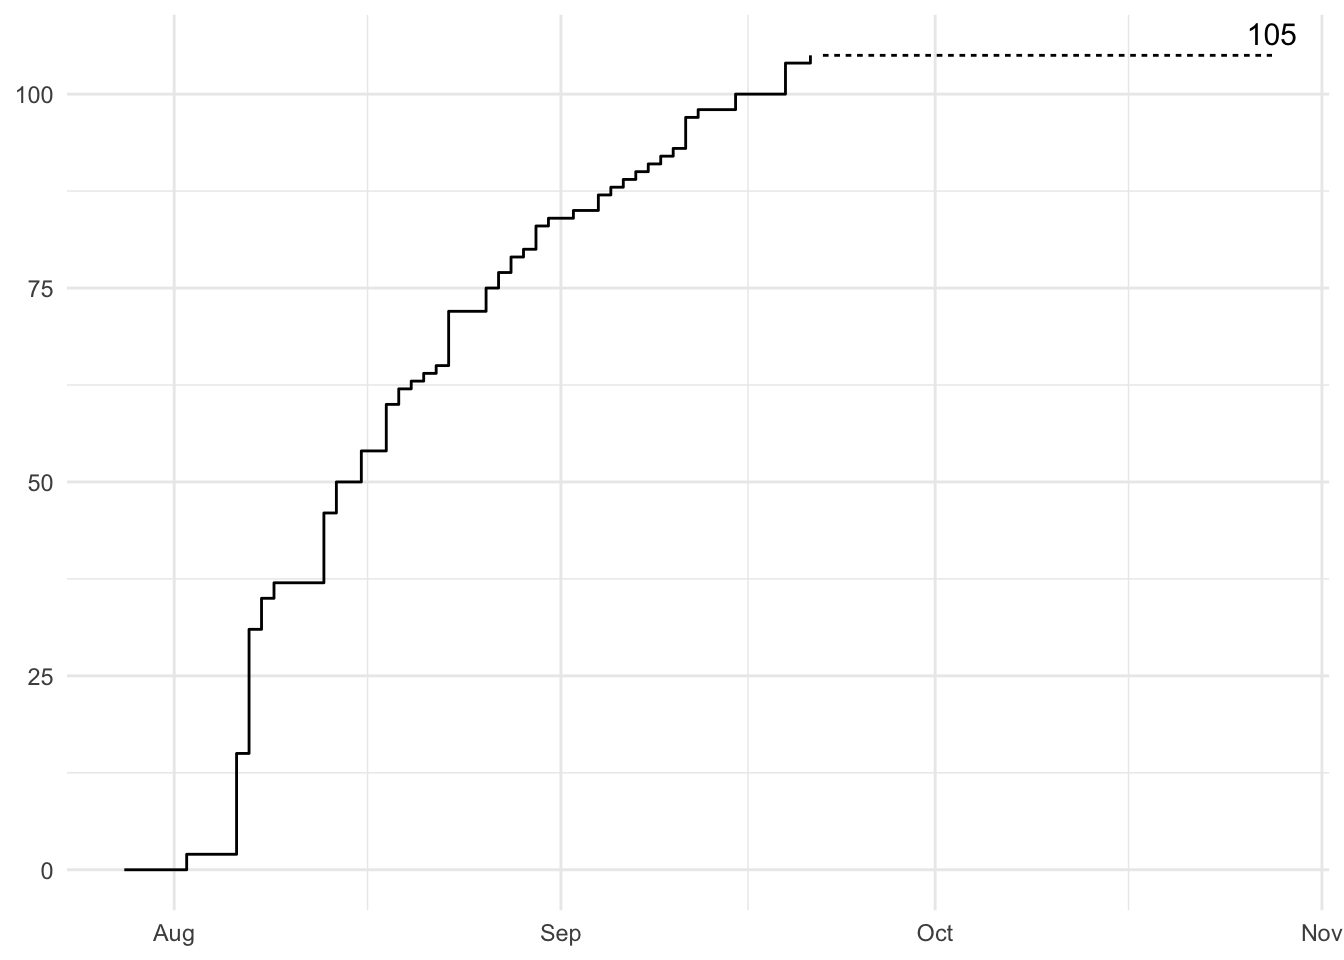
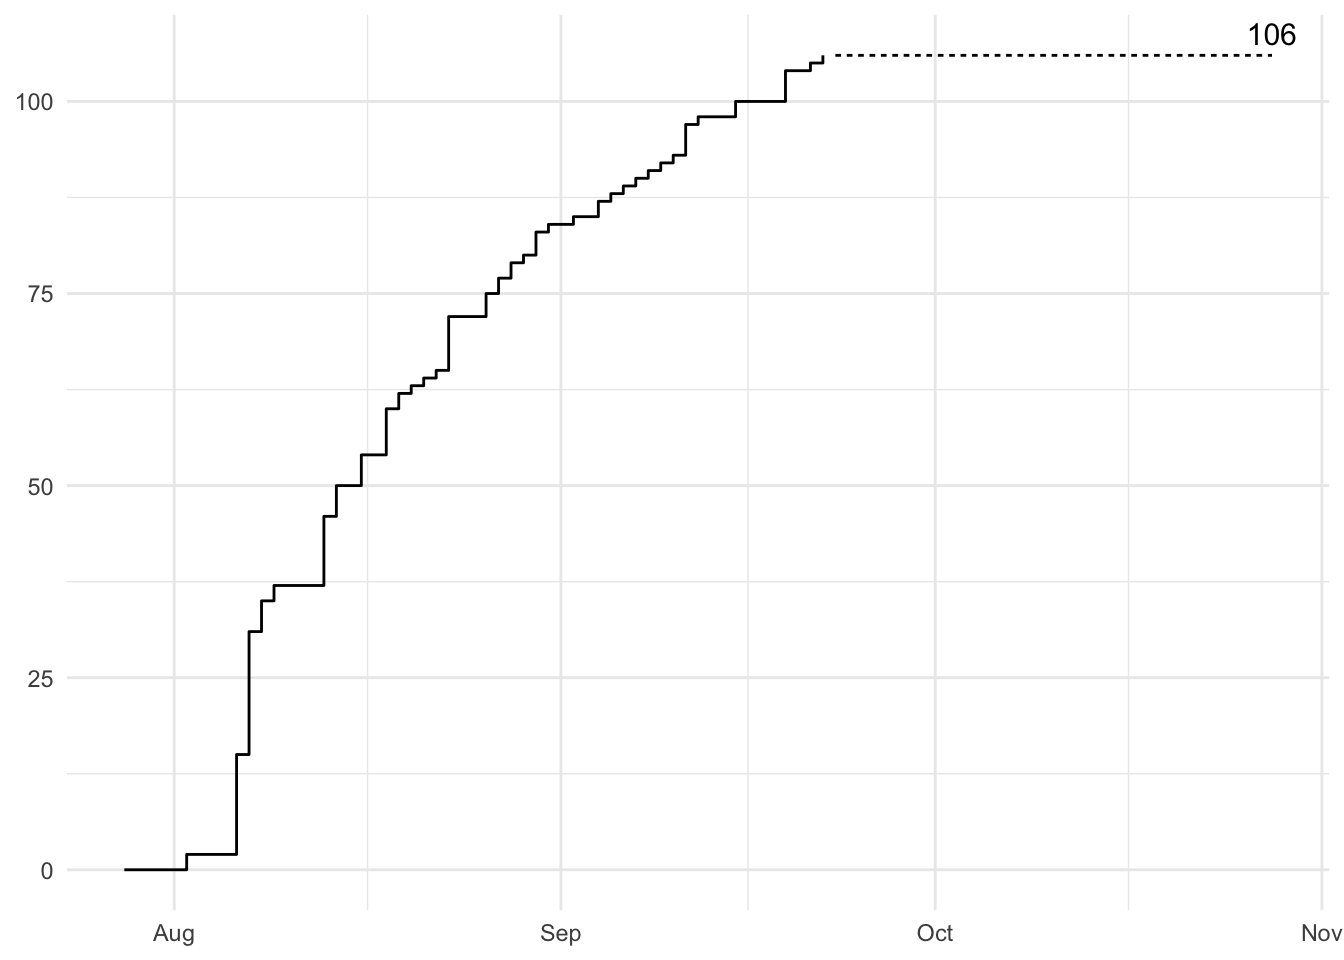
new team

diff --git a/_site/teams.html b/_site/teams.html
@@ -493,6 +493,7 @@ ul.task-list li input[type="checkbox"] {
   <li><a href="#team_versatile_monkey" id="toc-team_versatile_monkey" class="nav-link" data-scroll-target="#team_versatile_monkey">team_versatile_monkey</a></li>
   <li><a href="#team_versatile_ostrich" id="toc-team_versatile_ostrich" class="nav-link" data-scroll-target="#team_versatile_ostrich">team_versatile_ostrich</a></li>
   <li><a href="#team_versatile_yacht" id="toc-team_versatile_yacht" class="nav-link" data-scroll-target="#team_versatile_yacht">team_versatile_yacht</a></li>
+  <li><a href="#team_vibrant_orchid" id="toc-team_vibrant_orchid" class="nav-link" data-scroll-target="#team_vibrant_orchid">team_vibrant_orchid</a></li>
   <li><a href="#team_vibrant_pencil" id="toc-team_vibrant_pencil" class="nav-link" data-scroll-target="#team_vibrant_pencil">team_vibrant_pencil</a></li>
   <li><a href="#team_vigorous_jungle" id="toc-team_vigorous_jungle" class="nav-link" data-scroll-target="#team_vigorous_jungle">team_vigorous_jungle</a></li>
   <li><a href="#team_vigorous_ladder" id="toc-team_vigorous_ladder" class="nav-link" data-scroll-target="#team_vigorous_ladder">team_vigorous_ladder</a></li>
@@ -535,8 +536,8 @@ ul.task-list li input[type="checkbox"] {
 </header>
 
 
-<p>There are 105 active teams!</p>
-<p>Here is the cumulative sum of created teams (as of Sep 21, 2024):</p>
+<p>There are 106 active teams!</p>
+<p>Here is the cumulative sum of created teams (as of Sep 22, 2024):</p>
 <div class="cell">
 <div class="cell-output-display">
 <div>
@@ -1514,190 +1515,201 @@ ul.task-list li input[type="checkbox"] {
 <p>For several years we have provided our expertise in the aviation world and we are interested in bringing our unique combination of aeronautical engineering and data science skills to this challenge</p>
 </section>
 </section>
-<section id="team_vibrant_pencil" class="level2">
-<h2 class="anchored" data-anchor-id="team_vibrant_pencil">team_vibrant_pencil</h2>
+<section id="team_vibrant_orchid" class="level2">
+<h2 class="anchored" data-anchor-id="team_vibrant_orchid">team_vibrant_orchid</h2>
 <section id="description-88" class="level3">
 <h3 class="anchored" data-anchor-id="description-88">Description</h3>
-<p>I am an air traffic management specialist and data scientist at ASECNA air navigation service provider</p>
+<p>electrical engineering student with a background in data science</p>
 </section>
 <section id="rationale-for-participation-88" class="level3">
 <h3 class="anchored" data-anchor-id="rationale-for-participation-88">Rationale for participation</h3>
+<p>while reworking my own aviation data science side project, I stumbled upon this competition and as a lover of side projects, I thought it would be fun to compete</p>
+</section>
+</section>
+<section id="team_vibrant_pencil" class="level2">
+<h2 class="anchored" data-anchor-id="team_vibrant_pencil">team_vibrant_pencil</h2>
+<section id="description-89" class="level3">
+<h3 class="anchored" data-anchor-id="description-89">Description</h3>
+<p>I am an air traffic management specialist and data scientist at ASECNA air navigation service provider</p>
+</section>
+<section id="rationale-for-participation-89" class="level3">
+<h3 class="anchored" data-anchor-id="rationale-for-participation-89">Rationale for participation</h3>
 <p>Apply Expertise in Air Traffic Data to supports the development of innovative solutions and improvements in air traffic management. Gain Visibility for professional recognition, networking opportunities, and potential collaborations that enhance both my career and the strategic goals of ASECNA.</p>
 </section>
 </section>
 <section id="team_vigorous_jungle" class="level2">
 <h2 class="anchored" data-anchor-id="team_vigorous_jungle">team_vigorous_jungle</h2>
-<section id="description-89" class="level3">
-<h3 class="anchored" data-anchor-id="description-89">Description</h3>
+<section id="description-90" class="level3">
+<h3 class="anchored" data-anchor-id="description-90">Description</h3>
 <p>We are a group of software engineers with diverse backgrounds in machine learning and a shared passion for data science and machine learning. Our team actively contributes to open-source projects across different fields, allowing us to develop complex solutions that tackle real-world challenges</p>
 </section>
-<section id="rationale-for-participation-89" class="level3">
-<h3 class="anchored" data-anchor-id="rationale-for-participation-89">Rationale for participation</h3>
+<section id="rationale-for-participation-90" class="level3">
+<h3 class="anchored" data-anchor-id="rationale-for-participation-90">Rationale for participation</h3>
 <p>We are particularly interested in tracking flight records and addressing the current gap in open-source models for predicting critical aviation parameters. Our experience in data science and machine learning equips us well for this challenge, especially as it involves large datasets within a specific domain that we find both challenging and fascinating</p>
 </section>
 </section>
 <section id="team_vigorous_ladder" class="level2">
 <h2 class="anchored" data-anchor-id="team_vigorous_ladder">team_vigorous_ladder</h2>
-<section id="description-90" class="level3">
-<h3 class="anchored" data-anchor-id="description-90">Description</h3>
+<section id="description-91" class="level3">
+<h3 class="anchored" data-anchor-id="description-91">Description</h3>
 <p>We are two people working in tech learning new technologies. I work with a vartity of data from telco and Dylan working with social media and marketing data</p>
 </section>
-<section id="rationale-for-participation-90" class="level3">
-<h3 class="anchored" data-anchor-id="rationale-for-participation-90">Rationale for participation</h3>
+<section id="rationale-for-participation-91" class="level3">
+<h3 class="anchored" data-anchor-id="rationale-for-participation-91">Rationale for participation</h3>
 <p>We have been looking for a data project for data analysis as well as creating an open model. We want to learn, put our skills to the test and hopefully help build something</p>
 </section>
 </section>
 <section id="team_whimsical_moose" class="level2">
 <h2 class="anchored" data-anchor-id="team_whimsical_moose">team_whimsical_moose</h2>
-<section id="description-91" class="level3">
-<h3 class="anchored" data-anchor-id="description-91">Description</h3>
+<section id="description-92" class="level3">
+<h3 class="anchored" data-anchor-id="description-92">Description</h3>
 <p>Dr.&nbsp;Yifan Xu – An assistant professor from the College of Civil Aviation, Nanjing University of Aeronautics and Astronautics. Yifan brings deep domain knowledge of trajectory optimization, aircraft performance, and related data handling techniques. He was also a developer for Sabre Flight Plan Manager product. This background is essential for understanding the challenges in accurately predicting Actual TakeOff Weight (ATOW) and interpreting aviation-specific datasets. Dr.&nbsp;Yutao Hu – An associated professor from the School of Computer Science and Engineering, Southeast University. Yutao specializes in machine learning and AI-based optimization, with hands-on experience in large-scale data modeling and predictive analytics. His technical expertise will guide the development of the machine learning model, ensuring robust and reliable performance. Our team blends aviation-specific insight with cutting-edge data science expertise to deliver a model that accurately infers ATOW</p>
 </section>
-<section id="rationale-for-participation-91" class="level3">
-<h3 class="anchored" data-anchor-id="rationale-for-participation-91">Rationale for participation</h3>
+<section id="rationale-for-participation-92" class="level3">
+<h3 class="anchored" data-anchor-id="rationale-for-participation-92">Rationale for participation</h3>
 <p>While precise ATOW estimates are vital for improving fuel efficiency, safety, and operational decision-making in aviation. Our team sees this challenge as an opportunity to apply our skills in aviation operations and machine learning to develop a scalable, open-source model that can benefit the broader aviation community. We are motivated by both the technical challenge and the potential for real-world impact in optimizing flight operations and contributing to the future of data-driven aviation</p>
 </section>
 </section>
 <section id="team_witty_icicle" class="level2">
 <h2 class="anchored" data-anchor-id="team_witty_icicle">team_witty_icicle</h2>
-<section id="description-92" class="level3">
-<h3 class="anchored" data-anchor-id="description-92">Description</h3>
+<section id="description-93" class="level3">
+<h3 class="anchored" data-anchor-id="description-93">Description</h3>
 <p>We are engineers with a passion for programming and data science. Anthony holds a Master’s degree in Aeronautical Engineering, while Enrica has a PhD in Aerial Robotics</p>
 </section>
-<section id="rationale-for-participation-92" class="level3">
-<h3 class="anchored" data-anchor-id="rationale-for-participation-92">Rationale for participation</h3>
+<section id="rationale-for-participation-93" class="level3">
+<h3 class="anchored" data-anchor-id="rationale-for-participation-93">Rationale for participation</h3>
 <p>We are excited to participate in this challenge, aiming to develop a model to estimate the ATOW for aircraft</p>
 </section>
 </section>
 <section id="team_witty_yogurt" class="level2">
 <h2 class="anchored" data-anchor-id="team_witty_yogurt">team_witty_yogurt</h2>
-<section id="description-93" class="level3">
-<h3 class="anchored" data-anchor-id="description-93">Description</h3>
+<section id="description-94" class="level3">
+<h3 class="anchored" data-anchor-id="description-94">Description</h3>
 <p>I’m a pilot, software engineer, and person who likes to play with flight data</p>
 </section>
-<section id="rationale-for-participation-93" class="level3">
-<h3 class="anchored" data-anchor-id="rationale-for-participation-93">Rationale for participation</h3>
+<section id="rationale-for-participation-94" class="level3">
+<h3 class="anchored" data-anchor-id="rationale-for-participation-94">Rationale for participation</h3>
 <p>it seems like an interesting problem</p>
 </section>
 </section>
 <section id="team_witty_zucchini" class="level2">
 <h2 class="anchored" data-anchor-id="team_witty_zucchini">team_witty_zucchini</h2>
-<section id="description-94" class="level3">
-<h3 class="anchored" data-anchor-id="description-94">Description</h3>
+<section id="description-95" class="level3">
+<h3 class="anchored" data-anchor-id="description-95">Description</h3>
 <p>I am an avid aviation enthusiast working as a data scientist in a Fortune 40 company. I have experience working with [prior aviation related data] (https://github.com/billodalroy/flight-delay-prediction).</p>
 </section>
-<section id="rationale-for-participation-94" class="level3">
-<h3 class="anchored" data-anchor-id="rationale-for-participation-94">Rationale for participation</h3>
+<section id="rationale-for-participation-95" class="level3">
+<h3 class="anchored" data-anchor-id="rationale-for-participation-95">Rationale for participation</h3>
 <p>As an avgeek and a climate conscious person I rarely find anything which exists in the intersection of the two, this challenge is the closest to it. I believe I can contribute and learn while participating in the challenge.</p>
 </section>
 </section>
 <section id="team_wonderful_boat" class="level2">
 <h2 class="anchored" data-anchor-id="team_wonderful_boat">team_wonderful_boat</h2>
-<section id="description-95" class="level3">
-<h3 class="anchored" data-anchor-id="description-95">Description</h3>
+<section id="description-96" class="level3">
+<h3 class="anchored" data-anchor-id="description-96">Description</h3>
 <p>I am an aviation consultant, with a Master in Computer of Science</p>
 </section>
-<section id="rationale-for-participation-95" class="level3">
-<h3 class="anchored" data-anchor-id="rationale-for-participation-95">Rationale for participation</h3>
+<section id="rationale-for-participation-96" class="level3">
+<h3 class="anchored" data-anchor-id="rationale-for-participation-96">Rationale for participation</h3>
 <p>improve in ML and also just interested in the goal of the challenge (climate change related)</p>
 </section>
 </section>
 <section id="team_youthful_night" class="level2">
 <h2 class="anchored" data-anchor-id="team_youthful_night">team_youthful_night</h2>
-<section id="description-96" class="level3">
-<h3 class="anchored" data-anchor-id="description-96">Description</h3>
+<section id="description-97" class="level3">
+<h3 class="anchored" data-anchor-id="description-97">Description</h3>
 <p>data scientist in the aviation industry</p>
 </section>
-<section id="rationale-for-participation-96" class="level3">
-<h3 class="anchored" data-anchor-id="rationale-for-participation-96">Rationale for participation</h3>
+<section id="rationale-for-participation-97" class="level3">
+<h3 class="anchored" data-anchor-id="rationale-for-participation-97">Rationale for participation</h3>
 <p>help explore efficient TOW prediction. I work in developing software for Flight operations and sustainability which is an important objective we work towards</p>
 </section>
 </section>
 <section id="team_youthful_xerox" class="level2">
 <h2 class="anchored" data-anchor-id="team_youthful_xerox">team_youthful_xerox</h2>
-<section id="description-97" class="level3">
-<h3 class="anchored" data-anchor-id="description-97">Description</h3>
+<section id="description-98" class="level3">
+<h3 class="anchored" data-anchor-id="description-98">Description</h3>
 <p>We are four data scientists from the company Euranova. Lorenzo and Brieuc have contracting experience with Eurocontrol and are very motivated by aviation topics. Reda and Aziz are R&amp;D data scientists and work on state-of-the-art models for Euranova’s research department</p>
 </section>
-<section id="rationale-for-participation-97" class="level3">
-<h3 class="anchored" data-anchor-id="rationale-for-participation-97">Rationale for participation</h3>
+<section id="rationale-for-participation-98" class="level3">
+<h3 class="anchored" data-anchor-id="rationale-for-participation-98">Rationale for participation</h3>
 <p>We think our participation should be relevant to this challenge and want to demonstrate Euranova’s abilities in data sciences in the aviation sector</p>
 </section>
 </section>
 <section id="team_youthful_xylophone" class="level2">
 <h2 class="anchored" data-anchor-id="team_youthful_xylophone">team_youthful_xylophone</h2>
-<section id="description-98" class="level3">
-<h3 class="anchored" data-anchor-id="description-98">Description</h3>
+<section id="description-99" class="level3">
+<h3 class="anchored" data-anchor-id="description-99">Description</h3>
 <p>I am a passionate engineer with a strong foundation in applied mathematics and computer science. Aviation has captivated my imagination since childhood, inspiring me to pursue a career in engineering</p>
 </section>
-<section id="rationale-for-participation-98" class="level3">
-<h3 class="anchored" data-anchor-id="rationale-for-participation-98">Rationale for participation</h3>
+<section id="rationale-for-participation-99" class="level3">
+<h3 class="anchored" data-anchor-id="rationale-for-participation-99">Rationale for participation</h3>
 <p>My academic background equipped me with a robust analytical toolkit in digital signal processing, enabling me to tackle complex problems with a structured approach. I am excited to contribute my skills to this competition and extract valuable insights from this dataset</p>
 </section>
 </section>
 <section id="team_zany_eagle" class="level2">
 <h2 class="anchored" data-anchor-id="team_zany_eagle">team_zany_eagle</h2>
-<section id="description-99" class="level3">
-<h3 class="anchored" data-anchor-id="description-99">Description</h3>
+<section id="description-100" class="level3">
+<h3 class="anchored" data-anchor-id="description-100">Description</h3>
 <p>I study Mathematics at Technical University of Munich</p>
 </section>
-<section id="rationale-for-participation-99" class="level3">
-<h3 class="anchored" data-anchor-id="rationale-for-participation-99">Rationale for participation</h3>
+<section id="rationale-for-participation-100" class="level3">
+<h3 class="anchored" data-anchor-id="rationale-for-participation-100">Rationale for participation</h3>
 <p>huge aviation enthusiast since childhood. Moreover I have a passion for data science</p>
 </section>
 </section>
 <section id="team_zany_fireplace" class="level2">
 <h2 class="anchored" data-anchor-id="team_zany_fireplace">team_zany_fireplace</h2>
-<section id="description-100" class="level3">
-<h3 class="anchored" data-anchor-id="description-100">Description</h3>
+<section id="description-101" class="level3">
+<h3 class="anchored" data-anchor-id="description-101">Description</h3>
 <p>I work in the aviation industry and have a PhD in air transportation systems</p>
 </section>
-<section id="rationale-for-participation-100" class="level3">
-<h3 class="anchored" data-anchor-id="rationale-for-participation-100">Rationale for participation</h3>
+<section id="rationale-for-participation-101" class="level3">
+<h3 class="anchored" data-anchor-id="rationale-for-participation-101">Rationale for participation</h3>
 <p>My interest lies in big data processing in aviation and transportation systems. I process ample amounts of radar data on a regular basis but don’t get to perform any exploratory analysis, which I love.</p>
 </section>
 </section>
 <section id="team_zany_ladder" class="level2">
 <h2 class="anchored" data-anchor-id="team_zany_ladder">team_zany_ladder</h2>
-<section id="description-101" class="level3">
-<h3 class="anchored" data-anchor-id="description-101">Description</h3>
+<section id="description-102" class="level3">
+<h3 class="anchored" data-anchor-id="description-102">Description</h3>
 <p>I am: Grad student at Gies College of Business</p>
 </section>
-<section id="rationale-for-participation-101" class="level3">
-<h3 class="anchored" data-anchor-id="rationale-for-participation-101">Rationale for participation</h3>
+<section id="rationale-for-participation-102" class="level3">
+<h3 class="anchored" data-anchor-id="rationale-for-participation-102">Rationale for participation</h3>
 <p>Exploring Aviation Business &amp; OSN API</p>
 </section>
 </section>
 <section id="team_zesty_ostrich" class="level2">
 <h2 class="anchored" data-anchor-id="team_zesty_ostrich">team_zesty_ostrich</h2>
-<section id="description-102" class="level3">
-<h3 class="anchored" data-anchor-id="description-102">Description</h3>
+<section id="description-103" class="level3">
+<h3 class="anchored" data-anchor-id="description-103">Description</h3>
 <p>We are a team consisting of a Data Scientist and an MLOps Engineer, both working for a small IT company in Italy that specializes in providing solutions for the aviation industry</p>
 </section>
-<section id="rationale-for-participation-102" class="level3">
-<h3 class="anchored" data-anchor-id="rationale-for-participation-102">Rationale for participation</h3>
+<section id="rationale-for-participation-103" class="level3">
+<h3 class="anchored" data-anchor-id="rationale-for-participation-103">Rationale for participation</h3>
 <p>Being already part of the aviation sector, we understand its complexity and challenges. We think this challenge offers a good opportunity for us to engage with new data, further enhance our knowledge, and test our skills</p>
 </section>
 </section>
 <section id="team_zippy_horse" class="level2">
 <h2 class="anchored" data-anchor-id="team_zippy_horse">team_zippy_horse</h2>
-<section id="description-103" class="level3">
-<h3 class="anchored" data-anchor-id="description-103">Description</h3>
+<section id="description-104" class="level3">
+<h3 class="anchored" data-anchor-id="description-104">Description</h3>
 <p>Prof.&nbsp;Dr.&nbsp;Ulrich Schumann studied Mechanical Engineering in Berlin, promoted on turbulence in Karlsruhe and habilitated in Meteorology in Munich, Germany. He works on various aspects of contrail cirrus and airborne measurements, and lectures on aviation climate impact, now at the Technical University Munich. Prof.&nbsp;Ian Poll published a series of open-access aircraft performance models. Dr.&nbsp;Roger Teoh is Scientist at Imperial College (with Prof.&nbsp;Dr Marc Stettler) and published, since 2019, several papers on contrail modelling</p>
 </section>
-<section id="rationale-for-participation-103" class="level3">
-<h3 class="anchored" data-anchor-id="rationale-for-participation-103">Rationale for participation</h3>
+<section id="rationale-for-participation-104" class="level3">
+<h3 class="anchored" data-anchor-id="rationale-for-participation-104">Rationale for participation</h3>
 <p>We plan to derive best estimates of the aircraft takeoff mass (at least upper and lower bounds) by comparing the given flight trajectories with the restrictions resulting from performance modelling using the open access PS Performance model. The most recent model PS model version covers 67 ICAO aircraft types, hopefully including all aircraft types in the set of test data, and provides several criteria to deduce the achievability of the given flight states in respect to Flight level, Mach number, climb rate, vertical and horizontal accelerations, thrust, and lift coefficient, for the potential range of aircraft mass consistent with the takeoff mass, past fuel consumption, including all flight states from departure to destination. This should allow to estimate at least upper and lower bounds of the aircraft mass. The PS model is available among other within the pycontrail code ( https://doi.org/10.5281/zenodo.7776686 ). The PS model got improved over the years, and further improvements are to be expected. The team coordinator works mainly with Fortran, partially with Excel and partially with python</p>
 </section>
 </section>
 <section id="team_zippy_river" class="level2">
 <h2 class="anchored" data-anchor-id="team_zippy_river">team_zippy_river</h2>
-<section id="description-104" class="level3">
-<h3 class="anchored" data-anchor-id="description-104">Description</h3>
+<section id="description-105" class="level3">
+<h3 class="anchored" data-anchor-id="description-105">Description</h3>
 <p>I am an industrial engineering student (final year bachelor) from Hamburg with a focus on data science and a passion for aviation</p>
 </section>
-<section id="rationale-for-participation-104" class="level3">
-<h3 class="anchored" data-anchor-id="rationale-for-participation-104">Rationale for participation</h3>
+<section id="rationale-for-participation-105" class="level3">
+<h3 class="anchored" data-anchor-id="rationale-for-participation-105">Rationale for participation</h3>
 <p>Apply my knowledge for my personal interests</p>
 
 
